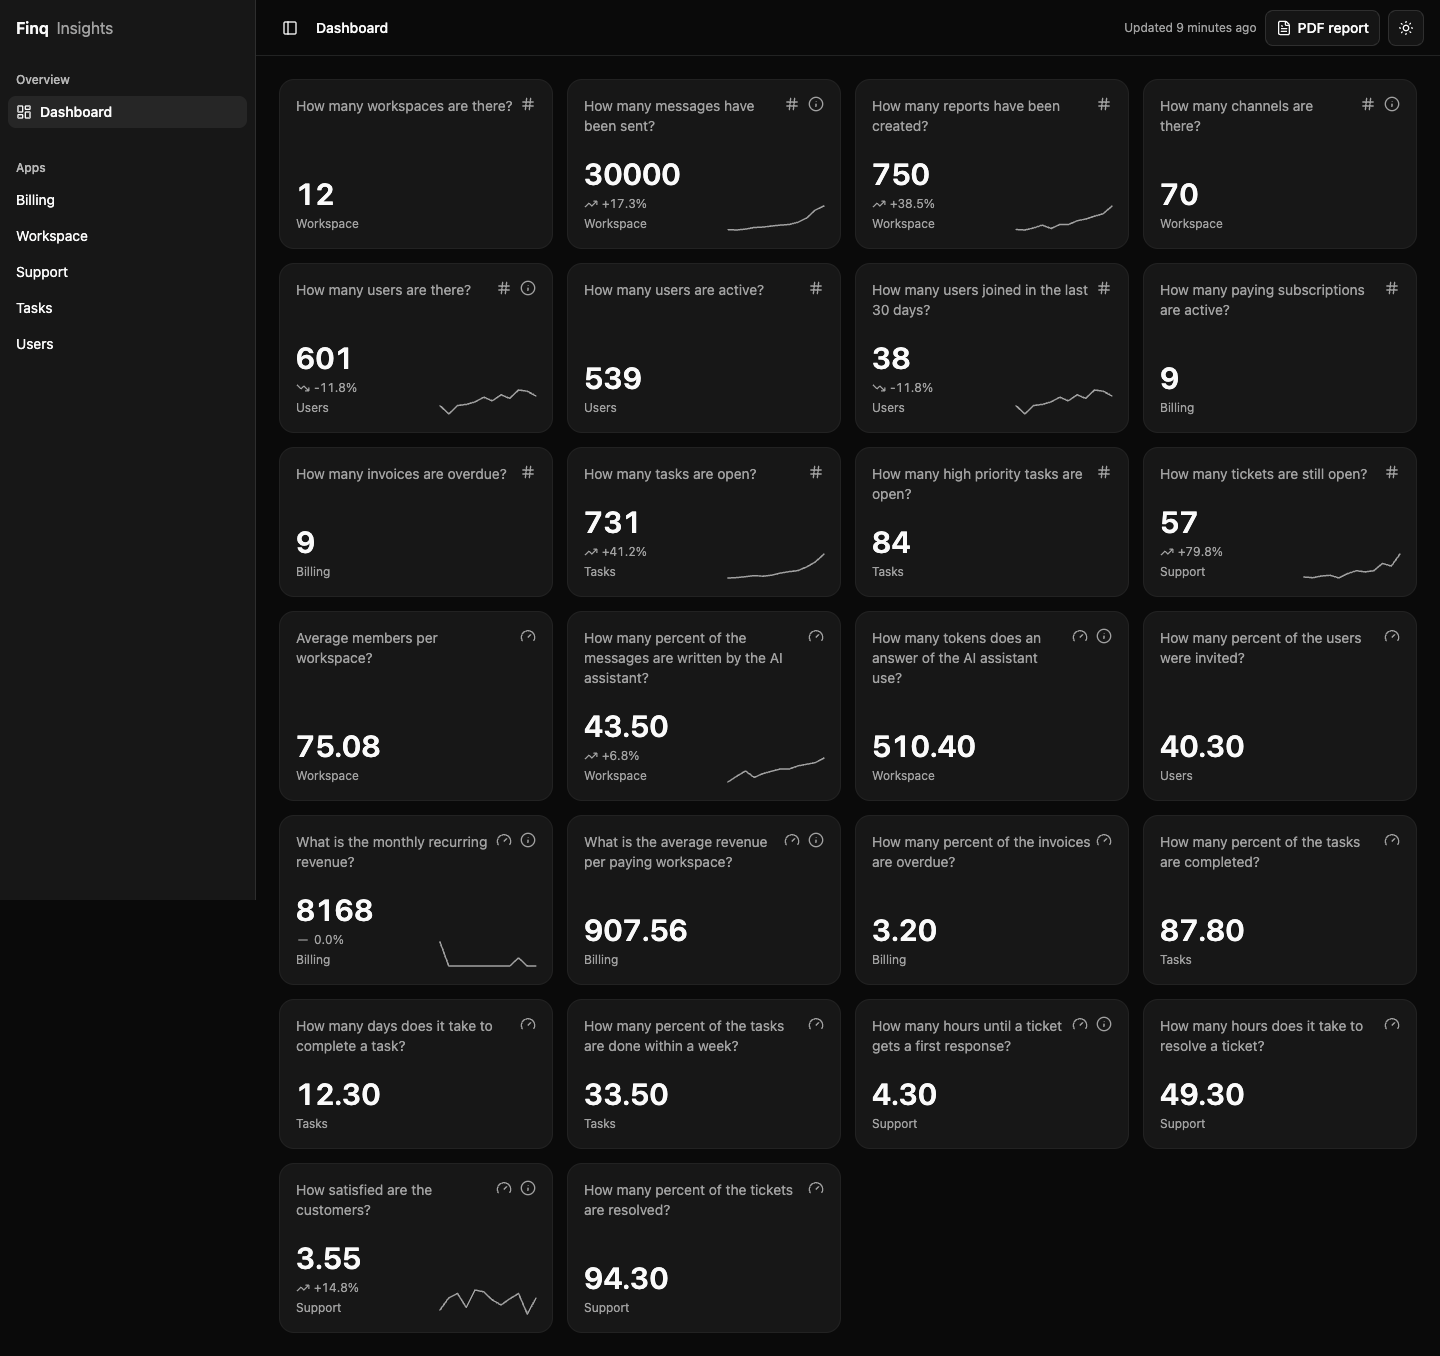
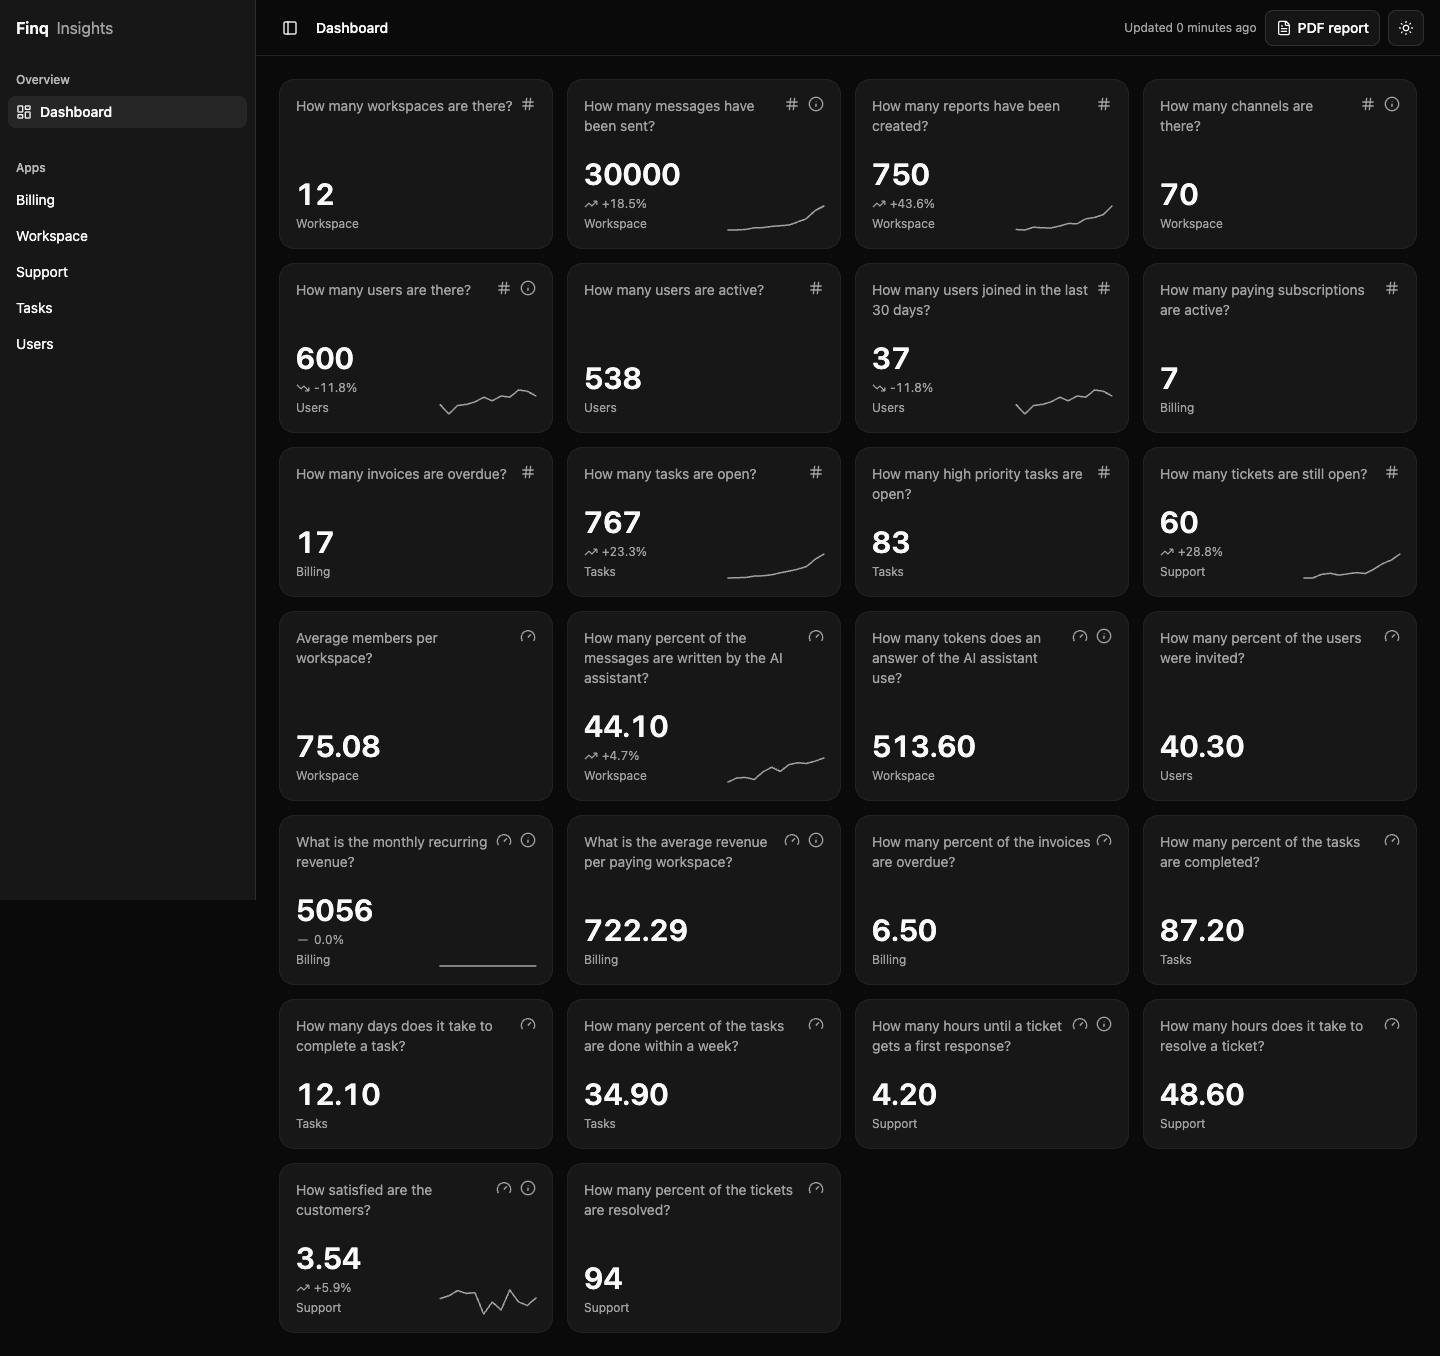
docs: retake the screenshots with the default colors and drop the demo accent

diff --git a/project/settings/base.py b/project/settings/base.py
@@ -94,6 +94,3 @@ INSIGHTS_CHART_DPI = 180
 
 # Insight cache
 INSIGHTS_MEDIA_CACHE_ROOT = os.path.join(MEDIA_ROOT, 'insights')
-
-# Change primary color
-INSIGHTS_THEME = "amber"
